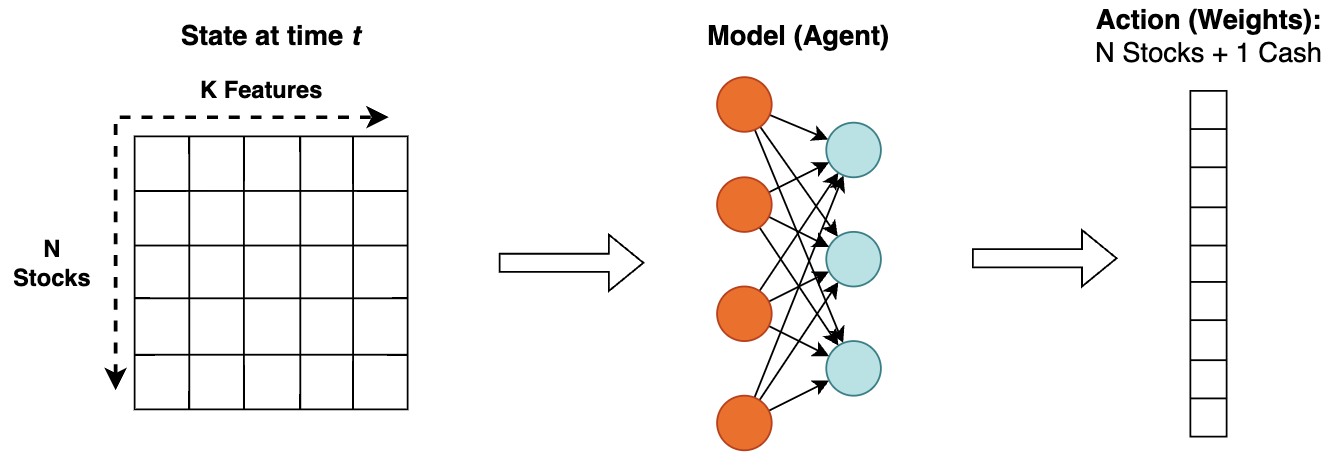
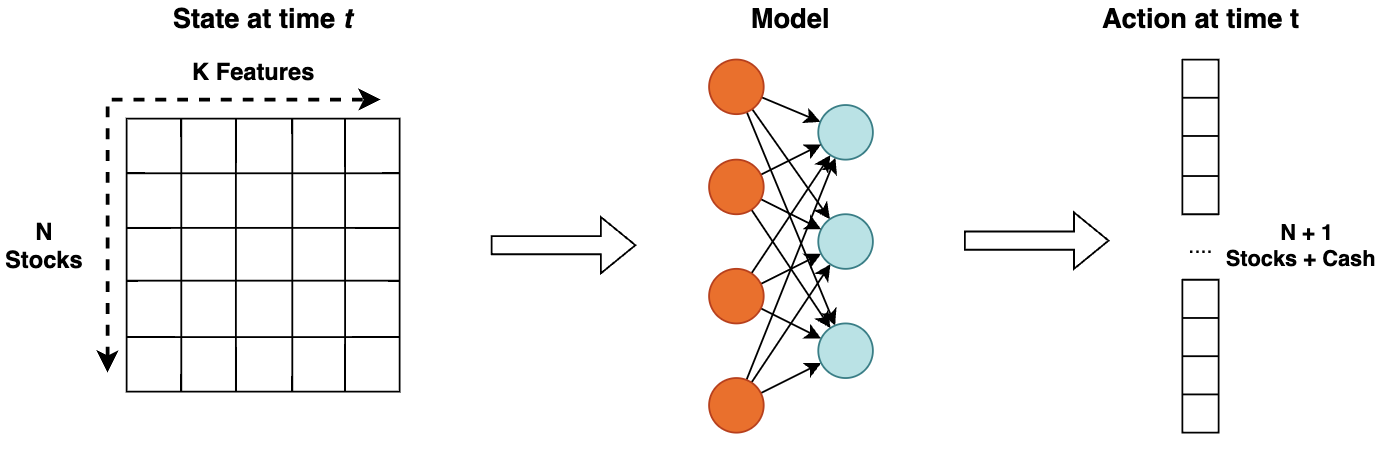
.

diff --git a/ibt-presentation/slides_cz.tex b/ibt-presentation/slides_cz.tex
@@ -21,57 +21,69 @@
     \frametitle{Motivace}
     \begin{itemize}
         \itemsep1em
-%        \item Reinforcement Learning, Markov Decision Processes a AI4Finance-Foundation
 %        \item Datasety pro trénování RL agentů
 %        \item Navrhnout vylepsene Prostředí pro RL agenty
 %        \item Natrenovat RL agenty s novými datasety
 %        \item Testovat a porovnávat natrénované agenty
         %
-        \item Zhodnocení majetku
-        \item Rozhodovací system
-        \item Veřejného zpracování v této tématice je velmi málo
+%        \item Zhodnocení majetku
+%        \item Rozhodovací system
+%        \item Veřejného zpracování v této tématice je velmi málo
+        %
+        \item Markov Decision Processes
+        \item Reinforcement Learning
+        \item DRL Model
+        \item Vytvořené Datasety a Modely jsou veřejně dostupné na Weights \& Biases
     \end{itemize}
 \end{frame}
 
 \begin{frame}
     \frametitle{Pipeline}
+    {\Large Fáze:}
+    \begin{enumerate}
+        \item Data Engineering
+        \item Environment Modeling
+        \item Model Layer
+%        \item Agent Training \& Testing
+    \end{enumerate}
     \begin{center}
         \begin{figure}
             \centering
             \includegraphics[width=0.9\textwidth]{img/navrh_reseni}
         \end{figure}
     \end{center}
-    {\Large Fáze:}
-    \begin{enumerate}
-        \item Data Engineering
-        \item Environment Modeling
-        \item Agent Training \& Testing
-    \end{enumerate}
 \end{frame}
 
 \begin{frame}
-    \frametitle{Datasety}
+    \frametitle{3 druhy Datasetů}
     \begin{multicols}{2}
-        \textbf{Fundamentalní analýza společnosti}
-        \begin{itemize}
-            \item Return on Equity
-%            \item Return on Assets
-            \item Current Ratio
-            \item Cash Ratio
-            \item Price Earnings Ratio
-            \item \ldots
-        \end{itemize}
-        \columnbreak
-        \textbf{Technická analýza společnosti}
         \begin{center}
-            \centering
-            \includegraphics[width=0.5\textwidth]{img/corr}
+            \textbf{1. Fundamentalní analýza společnosti}
+            \begin{itemize}
+                \item Return on Equity
+%            \item Return on Assets
+                \item Current Ratio
+                \item Cash Ratio
+                \item Price Earnings Ratio
+                \item \ldots
+            \end{itemize}
+        \end{center}
+        \columnbreak
+        \begin{center}
+            \textbf{2. Technická analýza společnosti}
+            \begin{figure}
+                \centering
+                \includegraphics[width=0.35\textwidth]{img/corr}
+
+                \textit{\small Technické indikátory vybrány podle jejich korelace.}
+            \end{figure}
         \end{center}
     \end{multicols}
+    \textbf{3. Kombinovace obou analýz}
 \end{frame}
 
 \begin{frame}
-    \frametitle{Agent a prostředí}
+    \frametitle{Prostředí a Model}
 
     \begin{center}
         \centering
@@ -81,68 +93,59 @@
 
 \begin{frame}
     \frametitle{Testování a Vyhodnocení}
-    Testovácí období 6 let (2017-2022)
-    \newline
-    \newline
     \textbf{Hyperparameter Sweep}
     \begin{itemize}
-        \item A2C, SAC, DDPG, PPO, TD3
-        \item Datasety: Fundamentalni, Technicka, Kombinovana
+        \item Datasety: \textit{Fundamentalní, Technický, Kombinovaný}
     \end{itemize}
     \textbf{Porovnání výkonnosti na datasetech}
     \begin{table}
         \centering
         {\footnotesize
-            \begin{tabular}{|l|l|l|}
+            \begin{tabular}{|ll|}
                 \hline
-                \textbf{Dataset Type} & \textbf{Portfolio Value}                                       \\ \hline
-                Combined              & \textcolor[RGB]{50,150,50}{\textbf{1.972} (zhodnocení 97.2\%)} \\ \hline
-                Fundamental           & \textcolor[RGB]{150,50,50}{\textbf{1.620} (zhodnocení 62.0\%)} \\ \hline
-%                \textbf{Model ID} & \textbf{Dataset Type} & \textbf{Portfolio Value}                   \\ \hline
-%                p3irnh80          & Combined              & \textcolor[RGB]{50,150,50}{\textbf{1.972} (zhodnocení 97.2\%)} \\ \hline
-%                zfjr0ks0          & Fundamental           & \textcolor[RGB]{150,50,50}{\textbf{1.620} (zhodnocení 62.0\%)} \\ \hline
+                \textbf{Dataset}                        & \textbf{Portfolio Value}                                       \\ \hline
+                \textcolor[RGB]{50,150,50}{Combined}    & \textcolor[RGB]{50,150,50}{\textbf{1.972} (zhodnocení 97.2\%)} \\
+                \textcolor[RGB]{150,50,50}{Fundamental} & \textcolor[RGB]{150,50,50}{\textbf{1.620} (zhodnocení 62.0\%)} \\ \hline
             \end{tabular}
-
-%            Spread: 0.352
         }
         \label{tab:datasets-comparison}
     \end{table}
-    \textbf{Robustnost}
+    \textbf{Testování Robustnosti}
     \begin{table}[H]
         \centering
         {\footnotesize
-            \begin{tabular}{|l|l|l|}
+            \begin{tabular}{|ll|}
                 \hline
-                \textbf{Dataset Type} & \textbf{Portfolio Value}                                       \\ \hline
-                Combined              & \textcolor[RGB]{50,150,50}{\textbf{1.972} (zhodnocení 97.2\%)} \\ \hline
-                Combined              & \textcolor[RGB]{150,50,50}{\textbf{1.723} (zhodnocení 72.3\%)} \\ \hline
-%                \textbf{Model ID} & \textbf{Dataset Type} & \textbf{Portfolio Value}                   \\ \hline
-%                p3irnh80          & Combined              & \textcolor[RGB]{50,150,50}{\textbf{1.972}} \\ \hline
-%                kyr89ols          & Combined              & \textcolor[RGB]{150,50,50}{\textbf{1.723}} \\ \hline
+                \textbf{Dataset}                     & \textbf{Portfolio Value}                                       \\ \hline
+                \textcolor[RGB]{50,150,50}{Combined} & \textcolor[RGB]{50,150,50}{\textbf{1.972} (zhodnocení 97.2\%)} \\
+                \textcolor[RGB]{150,50,50}{Combined} & \textcolor[RGB]{150,50,50}{\textbf{1.723} (zhodnocení 72.3\%)} \\ \hline
             \end{tabular}
-
-%            Spread: 0.249
         }
     \end{table}
+    \vfill
+    \textit{\small Testovácí období 6 let (2017-2022)}
 \end{frame}
 
 \begin{frame}
-    \frametitle{DJI vs. Model}
+    \frametitle{Porovnání: DJI vs. Model}
     \begin{multicols}{2}
         \begin{figure}
             \centering
+            \textbf{Dow Jones Index}
+
+%            Průměrné roční zhodnocení: 9.8\%
             \includegraphics[width=0.5\textwidth]{img/annual_returns_dji}
 %            \caption{DJI: Annual Avg. Return: 9.8\%}
-
-            DJI: Průměrné roční zhodnocení: 9.8\%
         \end{figure}
         \columnbreak
         \begin{figure}
             \centering
+            \textbf{Model}
+
             \includegraphics[width=0.5\textwidth]{img/annual_returns_max}
 %            \caption{Model: Annual Avg. Return: 12.5\%}
 
-            Model: Průměrné roční zhodnocení: 12.5\%
+            o $+2.7\%$ průměrné roční zhodnocení více než DJI
         \end{figure}
     \end{multicols}
 %    \begin{figure}
@@ -153,14 +156,6 @@
 %        \centering
 %        \includegraphics[width=0.1\textwidth]{img/annual_returns_max}
 %    \end{figure}
-\end{frame}
-
-\begin{frame}
-    \frametitle{Baselines (indexy, strategie)}
-    \begin{center}
-        \centering
-        \includegraphics[width=0.7\textwidth]{img/returns}
-    \end{center}
 \end{frame}
 
 
@@ -200,6 +195,14 @@
     \vspace{0.5cm}
 
     \large{Jaká slabá místa stávajících přístupů jste identifikoval (2. bod zadání)? Jaká konkrétní vylepšení jste navrhl (3. bod zadání)? Odpověď doporučuji zmínit již při prezentaci.}
+\end{frame}
+
+\begin{frame}
+    \frametitle{Baselines (indexy, strategie)}
+    \begin{center}
+        \centering
+        \includegraphics[width=0.7\textwidth]{img/returns}
+    \end{center}
 \end{frame}
 
 %%%%%%%%                       02 - Cíle práce                      %%%%%%%%
